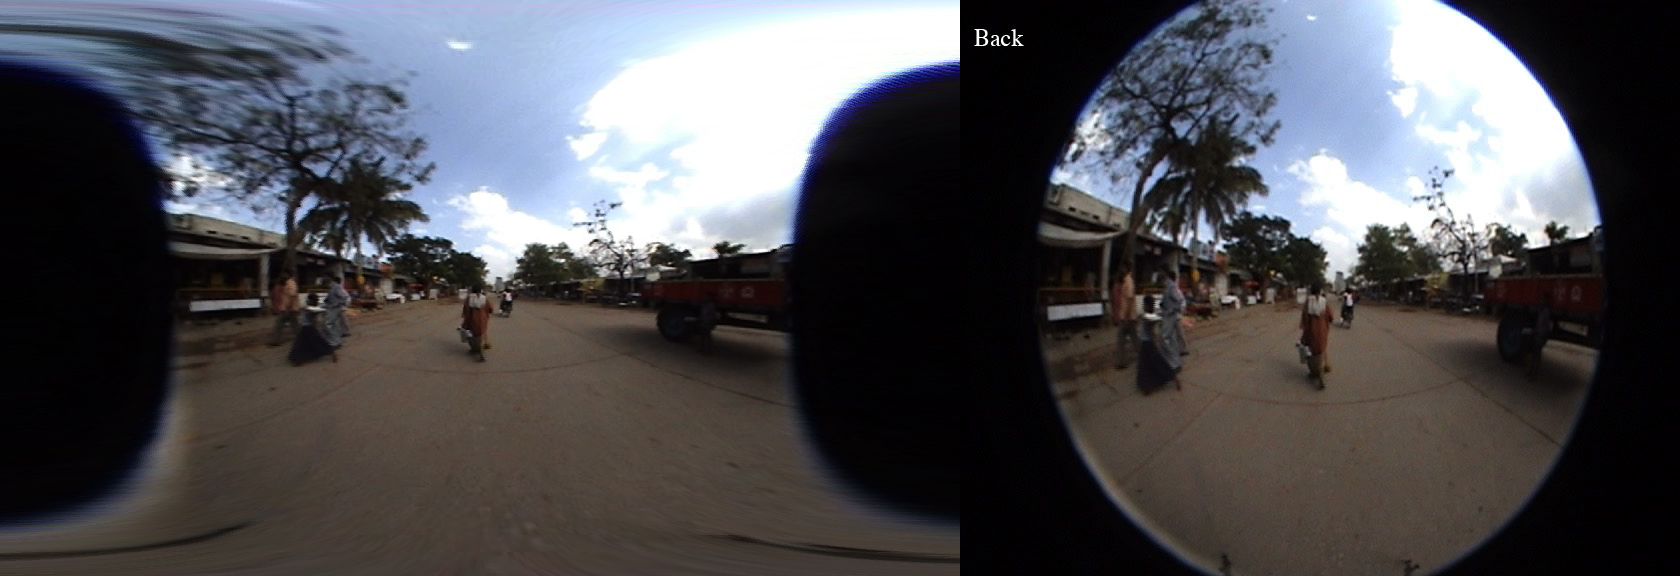
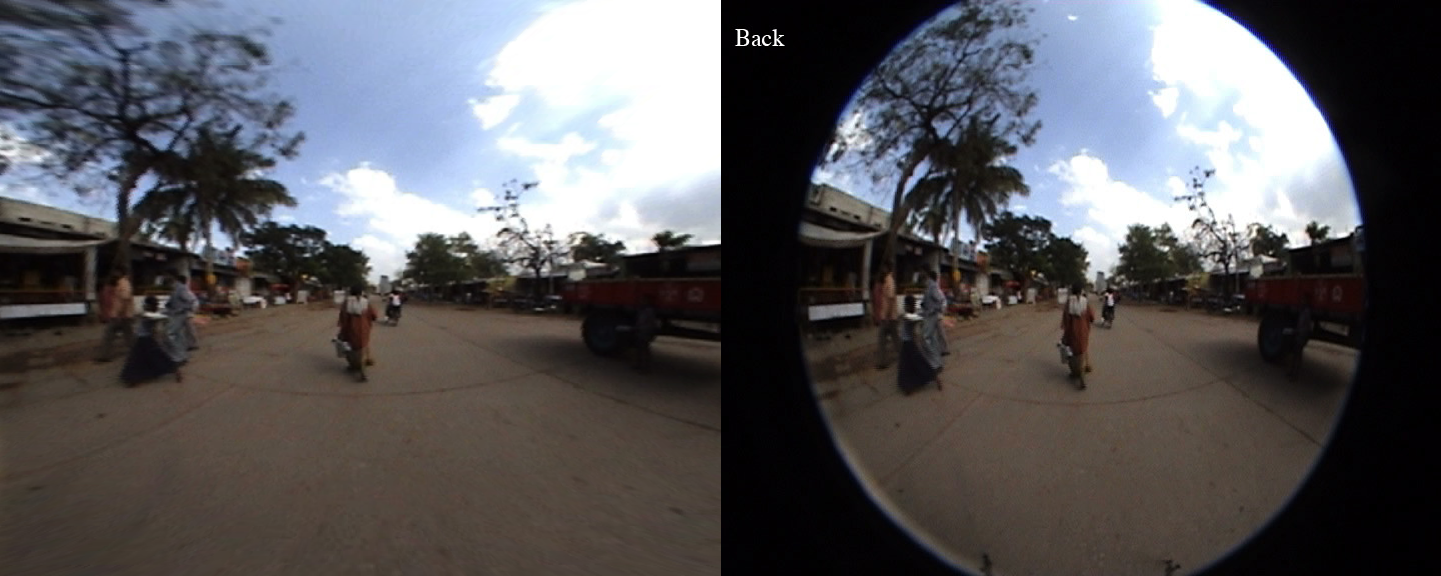
okay, tried to do an autocrop, meh, whatever

diff --git a/fisheye/defish.py b/fisheye/defish.py
@@ -56,11 +56,15 @@ def unwarp(img,xmap,ymap):
     result = Image(output,cv2image=True)
     return result
 
+def postCrop(img,threshold=10):
+    return img.crop(img.width*0.2,img.height*0.1,img.width*.6,img.height*0.8)
 
+doPostCrop = True
 img = Image('fisheye1.jpg')
-sections = spliceImg(img)
+sections = spliceImg(img,not doPostCrop)
 temp = sections[0]
-
+# we may want to make a new map per image for better
+# results in the long run
 Ws = temp.width
 Hs = temp.height
 Wd = temp.width*(4.0/3.0)
@@ -72,9 +76,11 @@ defished = []
 
 for s,idx  in zip(sections,range(0,len(sections))):
     result = unwarp(s,mapx,mapy)
+    if(doPostCrop):
+        result = postCrop(result)
     result = result
     temp = result.sideBySide(s)
     temp.save("View{0}.png".format(idx))
     result.save("DeWarp{0}.png".format(idx))
     temp.show()
-    time.sleep(3)
+    time.sleep(1)
